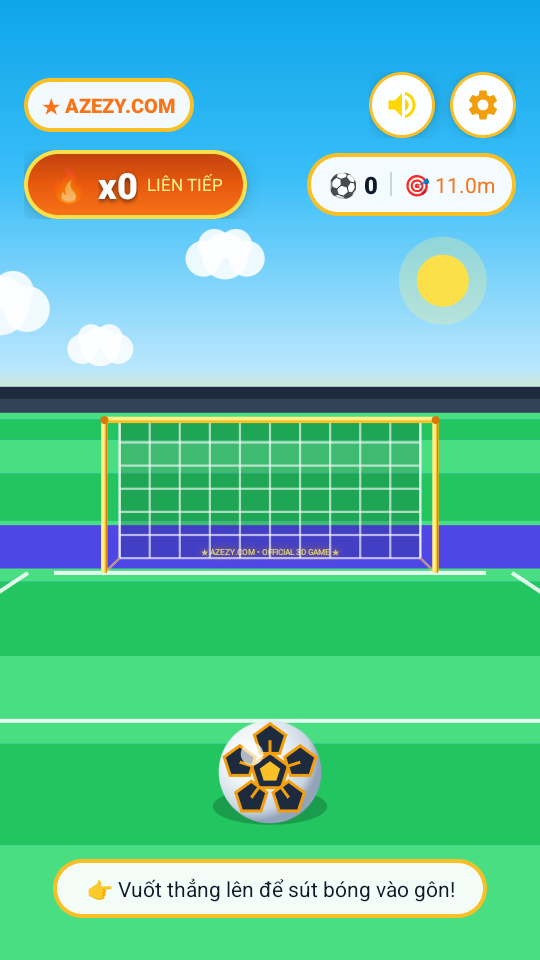
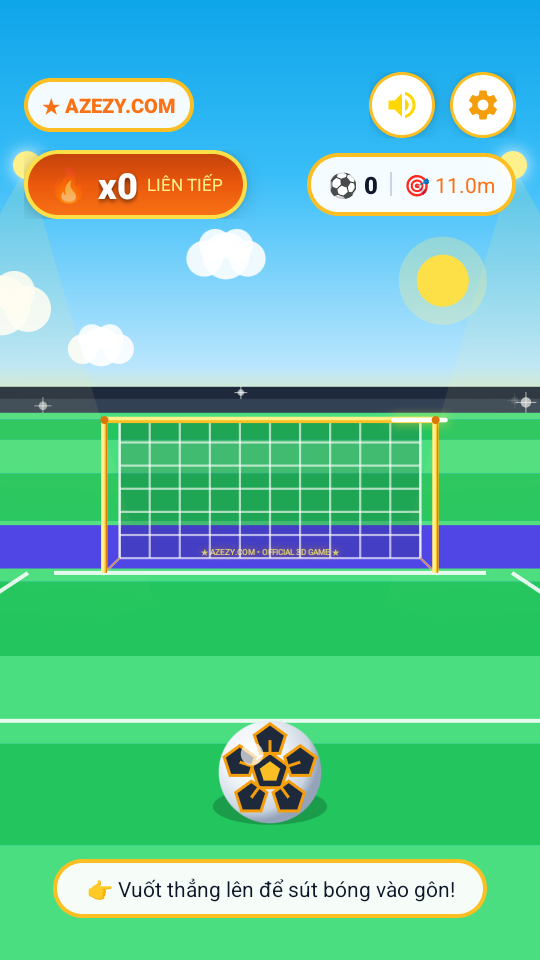
feat(vfx): Nâng cấp trọn bộ hiệu ứng hình ảnh 3D lộng lẫy (Đèn pha sân vận động, Flash khán đài, Vệt lửa sao băng, Tâm ngắm 3D, Sóng kích nổ và Pháo hoa ngôi sao xoay 3D)

diff --git a/app/src/main/java/com/azezy/azezyball/view/SoccerCanvasView.kt b/app/src/main/java/com/azezy/azezyball/view/SoccerCanvasView.kt
@@ -92,7 +92,28 @@ class SoccerCanvasView @JvmOverloads constructor(
     private var aimVz = 0f
     private var aimCurve = 0f
 
-    // Celebration Confetti Particles
+    // Dynamic Visual FX & Animation States
+    private var screenShake = 0f
+    private var goldShimmer = 0f
+    private var targetPulse = 0f
+    private var trailTimer = 0f
+
+    // 3D Glowing Ball Trail (Vệt lửa sao băng)
+    private class TrailPoint(var x: Float = 0f, var y: Float = 0f, var z: Float = 0f, var alpha: Float = 0f, var radius: Float = 0f)
+    private val ballTrail = Array(20) { TrailPoint() }
+
+    // Crowd Camera Flash Sparkles
+    private class FlashBulb(var x: Float = 0f, var y: Float = 0f, var alpha: Float = 0f, var size: Float = 0f)
+    private val flashBulbs = Array(14) { FlashBulb() }
+
+    // Goal Shockwave Ring
+    private var shockwaveActive = false
+    private var shockwaveRadius = 0f
+    private var shockwaveX = 0f
+    private var shockwaveY = 0f
+    private var shockwaveAlpha = 255
+
+    // Celebration Confetti & Sparkles
     private class Particle {
         var active = false
         var x = 0f
@@ -104,8 +125,11 @@ class SoccerCanvasView @JvmOverloads constructor(
         var alpha = 255
         var life = 0f
         var maxLife = 1f
+        var rotation = 0f
+        var vRot = 0f
+        var isStar = false
     }
-    private val particles = Array(120) { Particle() }
+    private val particles = Array(140) { Particle() }
 
     // Pre-allocated Paints (Zero allocations in onDraw)
     private val skyPaint = Paint()
@@ -121,6 +145,7 @@ class SoccerCanvasView @JvmOverloads constructor(
     private val goldPostPaint = Paint(Paint.ANTI_ALIAS_FLAG)
     private val goldDarkPaint = Paint(Paint.ANTI_ALIAS_FLAG)
     private val goldHighlightPaint = Paint(Paint.ANTI_ALIAS_FLAG)
+    private val goldShimmerPaint = Paint(Paint.ANTI_ALIAS_FLAG)
     private val netPaint = Paint(Paint.ANTI_ALIAS_FLAG)
     private val netBackFillPaint = Paint()
     private val shadowPaint = Paint(Paint.ANTI_ALIAS_FLAG)
@@ -135,6 +160,12 @@ class SoccerCanvasView @JvmOverloads constructor(
     private val trajectoryPaint = Paint(Paint.ANTI_ALIAS_FLAG)
     private val particlePaint = Paint(Paint.ANTI_ALIAS_FLAG)
     private val ledBrandPaint = Paint(Paint.ANTI_ALIAS_FLAG)
+    private val trailPaint = Paint(Paint.ANTI_ALIAS_FLAG)
+    private val floodlightPaint = Paint(Paint.ANTI_ALIAS_FLAG)
+    private val lightBeamPaint = Paint(Paint.ANTI_ALIAS_FLAG)
+    private val shockwavePaint = Paint(Paint.ANTI_ALIAS_FLAG)
+    private val reticlePaint = Paint(Paint.ANTI_ALIAS_FLAG)
+    private val flashPaint = Paint(Paint.ANTI_ALIAS_FLAG)
 
     private val netPath = Path()
     private val ballPatchPath = Path()
@@ -251,6 +282,46 @@ class SoccerCanvasView @JvmOverloads constructor(
             style = Paint.Style.FILL
             setShadowLayer(6f, 0f, 0f, Color.rgb(245, 158, 11))
         }
+
+        goldShimmerPaint.apply {
+            color = Color.rgb(255, 255, 255)
+            style = Paint.Style.STROKE
+            strokeWidth = 4.5f
+            strokeCap = Paint.Cap.ROUND
+            setShadowLayer(8f, 0f, 0f, Color.rgb(253, 224, 71))
+        }
+
+        trailPaint.apply {
+            style = Paint.Style.STROKE
+            strokeCap = Paint.Cap.ROUND
+            strokeJoin = Paint.Join.ROUND
+        }
+
+        floodlightPaint.apply {
+            color = Color.rgb(254, 240, 138)
+            style = Paint.Style.FILL
+            setShadowLayer(14f, 0f, 0f, Color.WHITE)
+        }
+
+        lightBeamPaint.style = Paint.Style.FILL
+
+        shockwavePaint.apply {
+            style = Paint.Style.STROKE
+            strokeWidth = 6f
+            color = Color.rgb(251, 191, 36)
+        }
+
+        reticlePaint.apply {
+            style = Paint.Style.STROKE
+            strokeWidth = 3.5f
+            color = Color.rgb(245, 158, 11)
+            setShadowLayer(6f, 0f, 0f, Color.rgb(253, 224, 71))
+        }
+
+        flashPaint.apply {
+            color = Color.WHITE
+            style = Paint.Style.FILL
+        }
     }
 
     override fun onSizeChanged(w: Int, h: Int, oldw: Int, oldh: Int) {
@@ -280,6 +351,15 @@ class SoccerCanvasView @JvmOverloads constructor(
 
         val w = width.toFloat()
         val h = height.toFloat()
+
+        // 0. Screen Shake Impact (Rung động màn hình khi sút / trúng xà / ghi bàn)
+        canvas.save()
+        if (screenShake > 0.001f) {
+            val ox = (Random.nextFloat() - 0.5f) * screenShake * 22f
+            val oy = (Random.nextFloat() - 0.5f) * screenShake * 22f
+            canvas.translate(ox, oy)
+            screenShake = (screenShake - dt * 3.5f).coerceAtLeast(0f)
+        }
 
         // 3D Cinematic Camera Tracking Interpolation
         if (ballState == BallState.FLYING || ballState == BallState.SCORED || ballState == BallState.MISSED) {
@@ -318,9 +398,25 @@ class SoccerCanvasView @JvmOverloads constructor(
         val c3Y = horizonY * 0.84f
         drawCloud(canvas, c3X, c3Y, 0.75f)
 
-        // 2. Draw 3D Stadium Stands & Grandstands
+        // 2. Draw 3D Stadium Stands & Crowd Camera Flash Flares
         canvas.drawRect(0f, horizonY - 26f, w, horizonY, stadiumPaint)
         canvas.drawRect(0f, horizonY - 14f, w, horizonY, crowdPaint)
+
+        // Crowd Camera Flash Sparkles in Grandstand
+        for (fb in flashBulbs) {
+            if (fb.alpha > 0.05f) {
+                flashPaint.color = Color.argb((fb.alpha * 255).toInt(), 255, 255, 255)
+                canvas.drawCircle(fb.x, fb.y, fb.size, flashPaint)
+                canvas.drawLine(fb.x - fb.size * 2f, fb.y, fb.x + fb.size * 2f, fb.y, flashPaint)
+                canvas.drawLine(fb.x, fb.y - fb.size * 2f, fb.x, fb.y + fb.size * 2f, flashPaint)
+                fb.alpha -= dt * 2.8f
+            } else if (Random.nextFloat() < 0.035f) {
+                fb.x = Random.nextFloat() * w
+                fb.y = horizonY - 24f + Random.nextFloat() * 18f
+                fb.alpha = 0.85f + Random.nextFloat() * 0.15f
+                fb.size = 2.5f + Random.nextFloat() * 3.5f
+            }
+        }
 
         // 3. Draw 3D Perspective Pitch (Emerald Grass Lawn Stripes)
         val numStripes = 9
@@ -348,6 +444,31 @@ class SoccerCanvasView @JvmOverloads constructor(
         fun projectScale(wz: Float): Float {
             return fov / (fov + wz + camFollowZ)
         }
+
+        // Volumetric Stadium Floodlight Beams (Hai chùm đèn pha sân vận động tỏa sáng)
+        val flLeftX = w * 0.05f
+        val flLeftY = horizonY * 0.40f
+        canvas.drawCircle(flLeftX, flLeftY, 14f, floodlightPaint)
+        val beamPathLeft = Path().apply {
+            moveTo(flLeftX, flLeftY)
+            lineTo(projectX(-4.5f, 2.0f), projectY(0f, 2.0f))
+            lineTo(projectX(-1.5f, 7.5f), projectY(0f, 7.5f))
+            close()
+        }
+        lightBeamPaint.shader = LinearGradient(flLeftX, flLeftY, projectX(-3.0f, 5.0f), projectY(0f, 5.0f), Color.argb(40, 254, 240, 138), Color.TRANSPARENT, Shader.TileMode.CLAMP)
+        canvas.drawPath(beamPathLeft, lightBeamPaint)
+
+        val flRightX = w * 0.95f
+        val flRightY = horizonY * 0.40f
+        canvas.drawCircle(flRightX, flRightY, 14f, floodlightPaint)
+        val beamPathRight = Path().apply {
+            moveTo(flRightX, flRightY)
+            lineTo(projectX(4.5f, 2.0f), projectY(0f, 2.0f))
+            lineTo(projectX(1.5f, 7.5f), projectY(0f, 7.5f))
+            close()
+        }
+        lightBeamPaint.shader = LinearGradient(flRightX, flRightY, projectX(3.0f, 5.0f), projectY(0f, 5.0f), Color.argb(40, 254, 240, 138), Color.TRANSPARENT, Shader.TileMode.CLAMP)
+        canvas.drawPath(beamPathRight, lightBeamPaint)
 
         // 4. 3D LED Stadium Advertising Boards with Official "AZEZY.COM" Branding
         val bLeftX = projectX(-6.5f, goalZ + 0.5f)
@@ -461,6 +582,11 @@ class SoccerCanvasView @JvmOverloads constructor(
         canvas.drawRoundRect(rectF, 6f, 6f, goldPostPaint)
         canvas.drawLine(gLeftX, gTopY - postThickness / 4f, gRightX, gTopY - postThickness / 4f, goldHighlightPaint)
 
+        // Golden Shimmer Light Wave on Crossbar (Ánh sáng kim loại chạy dọc xà ngang)
+        goldShimmer = (goldShimmer + dt * 1.3f) % 1.0f
+        val shimmerX = gLeftX + (gRightX - gLeftX) * goldShimmer
+        canvas.drawLine(shimmerX - 26f, gTopY, shimmerX + 26f, gTopY, goldShimmerPaint)
+
         // 3D Elbow Joints at Corners
         canvas.drawCircle(gLeftX, gTopY, postThickness * 0.65f, goldDarkPaint)
         canvas.drawCircle(gRightX, gTopY, postThickness * 0.65f, goldDarkPaint)
@@ -489,7 +615,7 @@ class SoccerCanvasView @JvmOverloads constructor(
             canvas.drawCircle(gkScreenX + gkW * 0.52f, gkScreenY - gkH * 0.55f, gkW * 0.20f, gkGlovePaint)
         }
 
-        // 8. Draw 3D Trajectory Aiming Line
+        // 8. Draw 3D Trajectory Aiming Line & Pulsing 3D Bullseye Reticle
         if (isAiming && (ballState == BallState.IDLE || ballState == BallState.AIMING)) {
             var simX = ballX
             var simY = ballY
@@ -499,19 +625,63 @@ class SoccerCanvasView @JvmOverloads constructor(
             var simVz = aimVz
             val path = Path()
             path.moveTo(projectX(simX, simZ), projectY(simY, simZ))
-            for (i in 0 until 20) {
+            var targetX = 0f
+            var targetY = 1.2f
+            for (i in 0 until 22) {
                 simVy -= 9.8f * 0.04f
                 simVx += aimCurve * 0.08f * 0.04f
                 simX += simVx * 0.04f
                 simY += simVy * 0.04f
                 simZ += simVz * 0.04f
-                if (simY < 0.1f || simZ > goalZ + 1.0f) break
+                if (simZ >= goalZ && simZ <= goalZ + 0.6f) {
+                    targetX = simX
+                    targetY = simY
+                }
+                if (simY < 0.1f || simZ > goalZ + 1.2f) break
                 path.lineTo(projectX(simX, simZ), projectY(simY, simZ))
             }
             canvas.drawPath(path, trajectoryPaint)
+
+            // 3D Concentric Glowing Bullseye Target Reticle at Impact Point
+            targetPulse = (targetPulse + dt * 6.0f) % (Math.PI * 2).toFloat()
+            val targetScreenX = projectX(targetX, goalZ)
+            val targetScreenY = projectY(targetY.coerceIn(0.25f, goalHeight), goalZ)
+            val pulseScale = 1.0f + 0.16f * sin(targetPulse)
+            val reticleR = 24f * projectScale(goalZ) * pulseScale
+
+            canvas.drawCircle(targetScreenX, targetScreenY, reticleR, reticlePaint)
+            canvas.drawCircle(targetScreenX, targetScreenY, reticleR * 0.5f, reticlePaint)
+            canvas.drawCircle(targetScreenX, targetScreenY, 4f, reticlePaint)
+            canvas.drawLine(targetScreenX - reticleR * 1.3f, targetScreenY, targetScreenX - reticleR * 0.7f, targetScreenY, reticlePaint)
+            canvas.drawLine(targetScreenX + reticleR * 0.7f, targetScreenY, targetScreenX + reticleR * 1.3f, targetScreenY, reticlePaint)
+            canvas.drawLine(targetScreenX, targetScreenY - reticleR * 1.3f, targetScreenX, targetScreenY - reticleR * 0.7f, reticlePaint)
+            canvas.drawLine(targetScreenX, targetScreenY + reticleR * 0.7f, targetScreenX, targetScreenY + reticleR * 1.3f, reticlePaint)
         }
 
-        // 9. Draw Volumetric 3D Soccer Ball & Dynamic Ground Shadow
+        // 9. Draw Fiery 3D Glowing Ball Ribbon Trail (Vệt lửa sao băng khi bóng bay)
+        for (i in 1 until ballTrail.size) {
+            val p1 = ballTrail[i - 1]
+            val p2 = ballTrail[i]
+            if (p1.alpha > 0.04f && p2.alpha > 0.04f) {
+                val s1x = projectX(p1.x, p1.z)
+                val s1y = projectY(p1.y, p1.z)
+                val s2x = projectX(p2.x, p2.z)
+                val s2y = projectY(p2.y, p2.z)
+                val tAlpha = ((p1.alpha) * 220).toInt().coerceIn(0, 255)
+
+                // Outer fiery orange glow
+                trailPaint.strokeWidth = (p1.radius * 1.15f).coerceAtLeast(3f)
+                trailPaint.color = Color.argb(tAlpha, 251, 146, 60)
+                canvas.drawLine(s1x, s1y, s2x, s2y, trailPaint)
+
+                // Inner blazing golden core
+                trailPaint.strokeWidth = (p1.radius * 0.55f).coerceAtLeast(1.5f)
+                trailPaint.color = Color.argb(tAlpha, 254, 240, 138)
+                canvas.drawLine(s1x, s1y, s2x, s2y, trailPaint)
+            }
+        }
+
+        // 10. Draw Volumetric 3D Soccer Ball & Dynamic Ground Shadow
         val bScale = projectScale(ballZ)
         val bScreenX = projectX(ballX, ballZ)
         val bScreenY = projectY(ballY, ballZ)
@@ -587,15 +757,43 @@ class SoccerCanvasView @JvmOverloads constructor(
             canvas.restore()
         }
 
-        // 10. Draw Celebration Rainbow Confetti
+        // 11. Goal Shockwave Blast Ring (Sóng kích nổ khi ghi bàn)
+        if (shockwaveActive) {
+            shockwaveRadius += 520f * dt
+            shockwaveAlpha = (255 * (1f - shockwaveRadius / 260f)).toInt().coerceIn(0, 255)
+            if (shockwaveRadius >= 260f || shockwaveAlpha <= 0) {
+                shockwaveActive = false
+            } else {
+                shockwavePaint.color = Color.argb(shockwaveAlpha, 251, 191, 36)
+                shockwavePaint.strokeWidth = 8f * (1f - shockwaveRadius / 260f)
+                canvas.drawCircle(shockwaveX, shockwaveY, shockwaveRadius, shockwavePaint)
+
+                shockwavePaint.color = Color.argb(shockwaveAlpha / 2, 254, 240, 138)
+                shockwavePaint.strokeWidth = 4f
+                canvas.drawCircle(shockwaveX, shockwaveY, shockwaveRadius * 0.70f, shockwavePaint)
+            }
+        }
+
+        // 12. Draw Celebration Confetti, Diamonds & Golden Stars
         for (p in particles) {
             if (p.active) {
                 particlePaint.color = p.color
                 particlePaint.alpha = p.alpha
-                canvas.drawCircle(p.x, p.y, p.size, particlePaint)
+                canvas.save()
+                canvas.translate(p.x, p.y)
+                canvas.rotate(p.rotation)
+                if (p.isStar) {
+                    // Star shape
+                    canvas.drawRect(-p.size * 0.6f, -p.size * 0.6f, p.size * 0.6f, p.size * 0.6f, particlePaint)
+                } else {
+                    // Confetti ribbon
+                    canvas.drawRoundRect(RectF(-p.size, -p.size * 0.4f, p.size, p.size * 0.4f), 3f, 3f, particlePaint)
+                }
+                canvas.restore()
             }
         }
 
+        canvas.restore() // Restore screen shake
         invalidate()
     }
 
@@ -772,27 +970,42 @@ class SoccerCanvasView @JvmOverloads constructor(
     private fun spawnConfetti() {
         val w = width.toFloat()
         val h = height.toFloat()
+        screenShake = 1.0f
+        shockwaveActive = true
+        shockwaveRadius = 0f
+        val fov = 7.2f
+        val scale = fov / (fov + goalZ + camFollowZ)
+        shockwaveX = (w * 0.5f - (camFollowX * 22f)) + ballX * (w * 0.29f) * scale
+        val horizonY = h * 0.43f + (camFollowY * 18f)
+        val pitchCenterBottomY = h * 0.84f + (camFollowY * 15f)
+        val groundY = horizonY + (pitchCenterBottomY - horizonY) * scale
+        shockwaveY = groundY - ballY * (w * 0.29f) * scale
+
         val colors = intArrayOf(
             Color.rgb(251, 191, 36),  // Gold
-            Color.rgb(244, 63, 94),   // Pink
+            Color.rgb(244, 63, 94),   // Crimson Pink
             Color.rgb(56, 189, 248),  // Cyan
             Color.rgb(74, 222, 128),  // Lime
             Color.rgb(251, 146, 60),  // Orange
-            Color.rgb(253, 224, 71)   // Yellow
+            Color.rgb(253, 224, 71),  // Sunlight Yellow
+            Color.rgb(255, 255, 255)  // Star White
         )
         for (p in particles) {
             p.active = true
-            p.x = w * (0.35f + Random.nextFloat() * 0.3f)
-            p.y = h * (0.30f + Random.nextFloat() * 0.2f)
-            val speed = 250f + Random.nextFloat() * 450f
+            p.x = shockwaveX + (Random.nextFloat() - 0.5f) * 60f
+            p.y = shockwaveY + (Random.nextFloat() - 0.5f) * 40f
+            val speed = 280f + Random.nextFloat() * 520f
             val angle = Random.nextFloat() * (Math.PI * 2).toFloat()
             p.vx = cos(angle) * speed
-            p.vy = sin(angle) * speed - 150f
+            p.vy = sin(angle) * speed - 180f
             p.color = colors[Random.nextInt(colors.size)]
-            p.size = 10f + Random.nextFloat() * 14f
-            p.maxLife = 1.8f + Random.nextFloat() * 0.8f
+            p.size = 8f + Random.nextFloat() * 15f
+            p.maxLife = 1.6f + Random.nextFloat() * 0.8f
             p.life = p.maxLife
             p.alpha = 255
+            p.rotation = Random.nextFloat() * 360f
+            p.vRot = (Random.nextFloat() - 0.5f) * 400f
+            p.isStar = Random.nextBoolean()
         }
     }
 
@@ -804,9 +1017,10 @@ class SoccerCanvasView @JvmOverloads constructor(
                     p.active = false
                     continue
                 }
-                p.vy += 450f * dt
+                p.vy += 420f * dt
                 p.x += p.vx * dt
                 p.y += p.vy * dt
+                p.rotation += p.vRot * dt
                 p.alpha = ((p.life / p.maxLife) * 255).toInt().coerceIn(0, 255)
             }
         }
